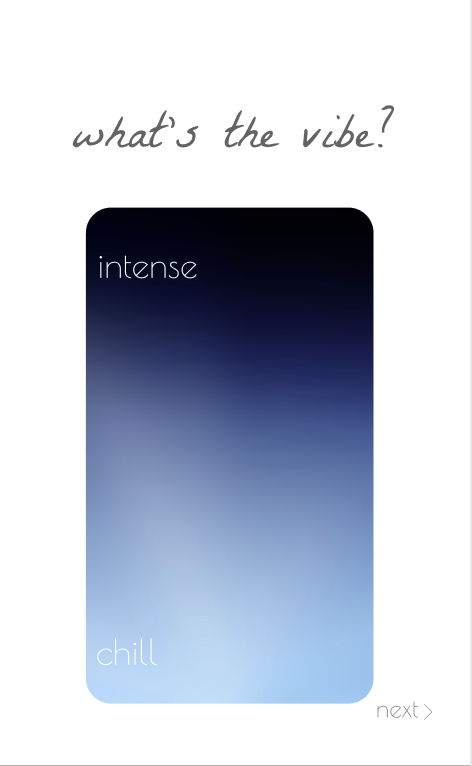
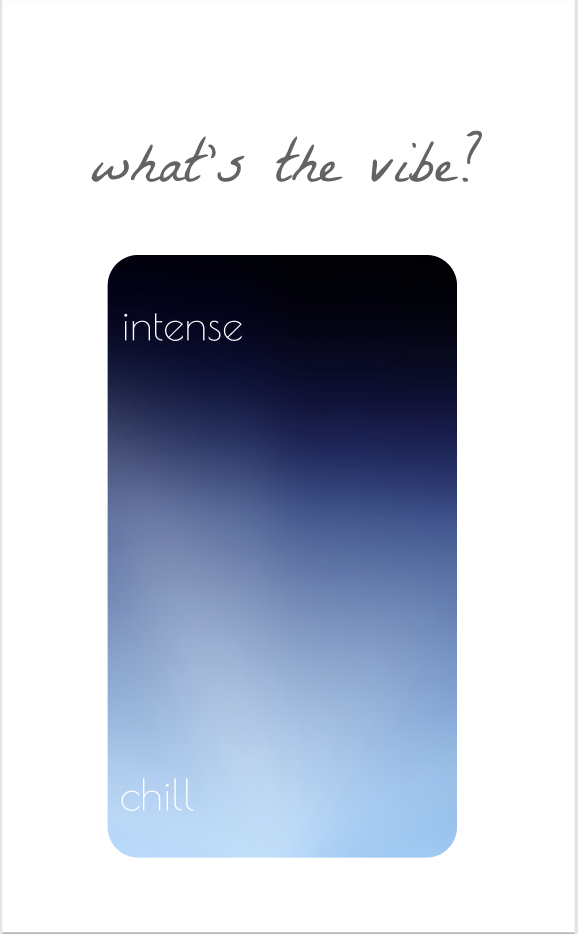
fixed vibe screen

diff --git a/enLIGHTen/screens/VibeScreen.js b/enLIGHTen/screens/VibeScreen.js
@@ -30,7 +30,7 @@ export default class VibeScreen extends React.Component {
         <NavBar navigation={navigation} page={"Vibe"} mode={mode} category={category} playersOutOfGame={""} playersInGame={""}/>
             <View style={styles.welcomeContainer}>
           <ImageBackground
-              style={{height: 750, width: 420}}
+              style={{height: 700, width: 420}}
               source={
                 require("../assets/vibeScreen.png")
               }
